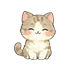
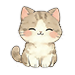
修改眨眼动画,去掉抖动

Changed region(s): [[0.1333, 0.08, 0.8533, 0.9067]]

diff --git a/main.py b/main.py
@@ -58,7 +58,7 @@ class DesktopPet(QLabel):
 
         # ===== 眨眼动画 =====
         self.blink_sequence = [0, 1, 2, 3, 2, 1, 0]
-        self.blink_intervals = [0, 40, 50, 60, 50, 40, 0]
+        self.blink_intervals = [0, 30, 20, 60, 20, 40, 0]
         self.blink_index = 0
         self.is_blinking = False
         self.blink_repeat_total = 1   # 本轮要眨几次
